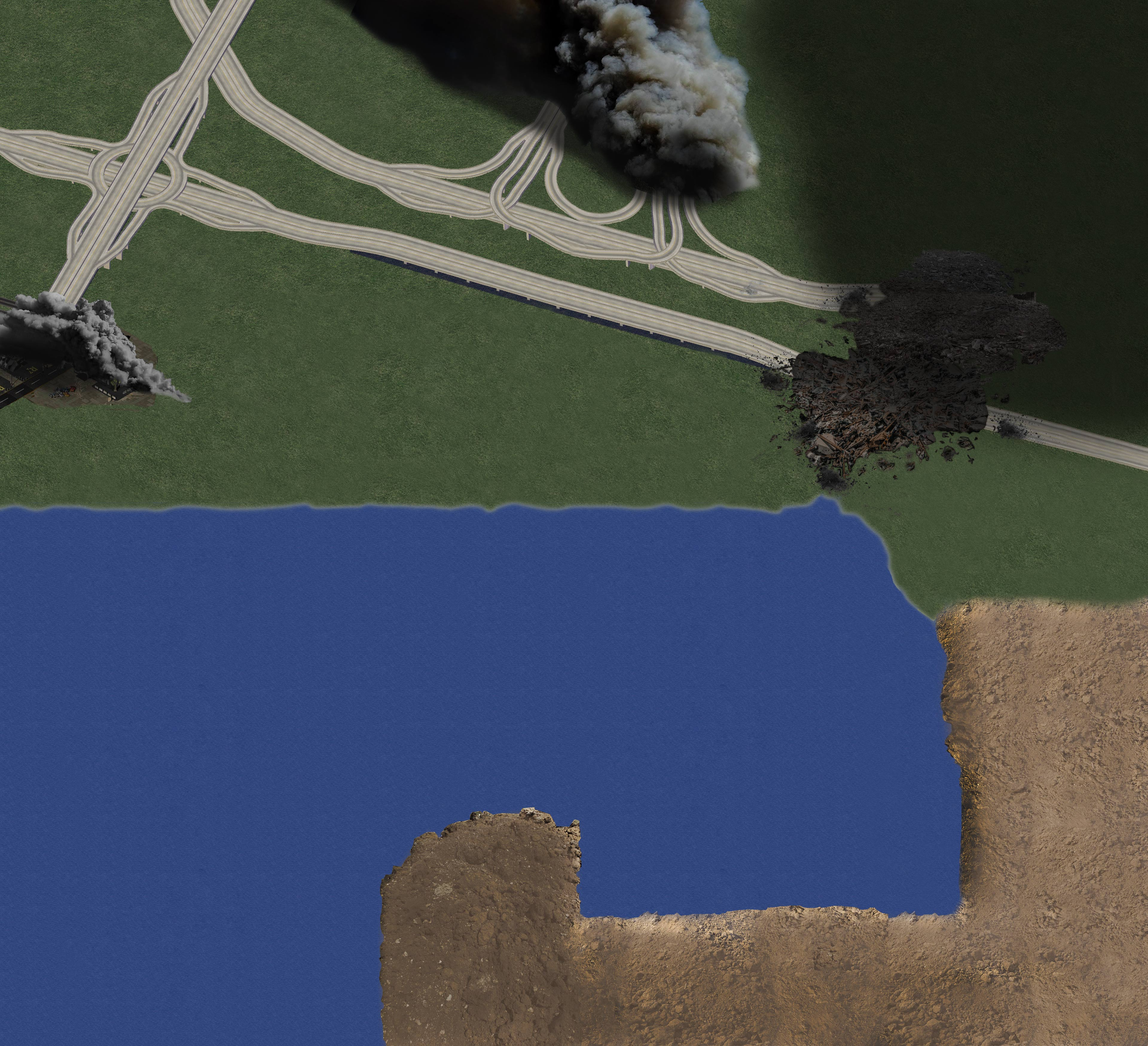
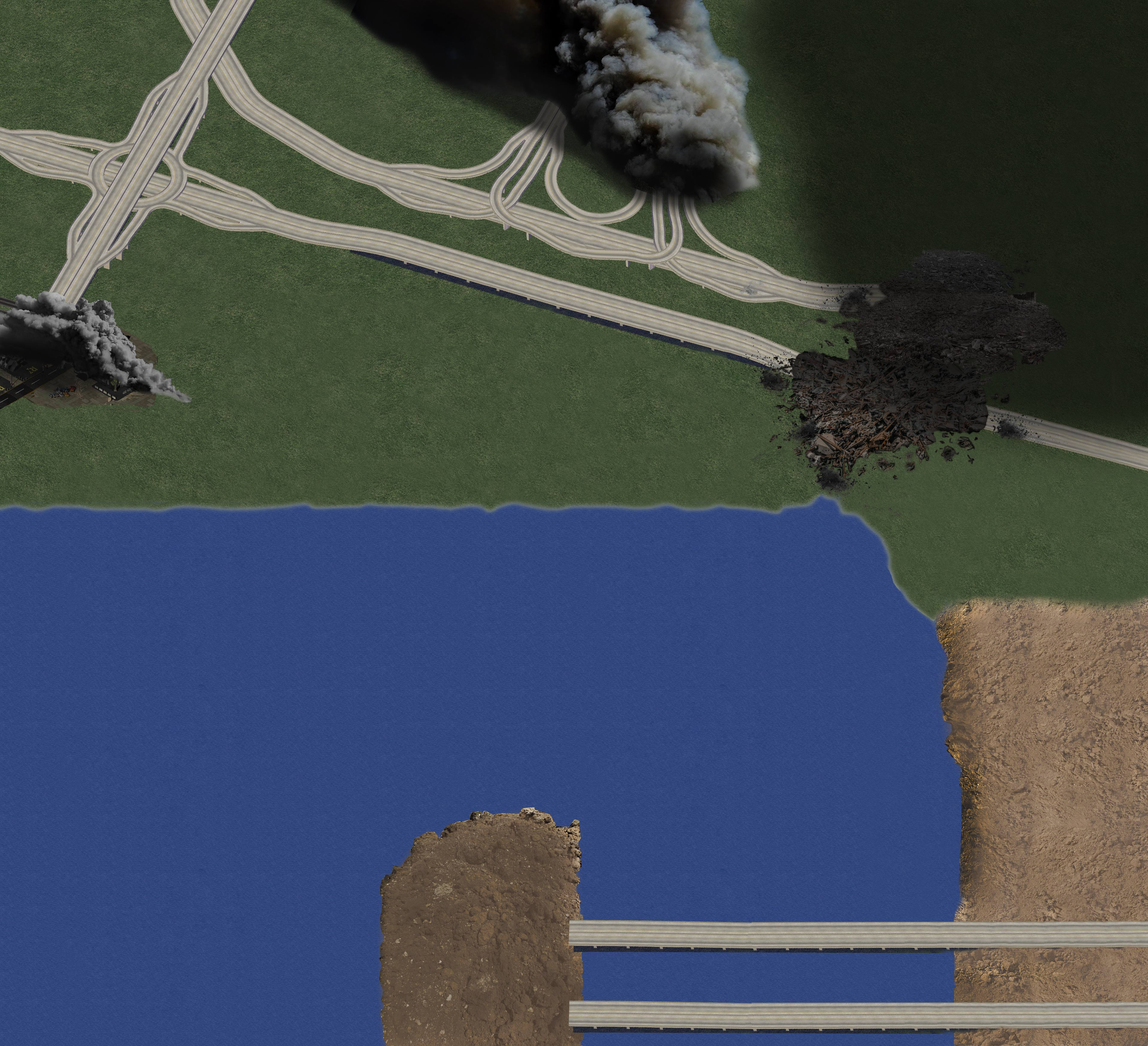
bridge

Changed region(s): [[0.4688, 0.8409, 1.0, 1.0]]

diff --git a/mech/js/l1.js b/mech/js/l1.js
@@ -6,7 +6,7 @@ document.addEventListener("DOMContentLoaded", function(event) {
 	var enemy5 = addEnemy("turret", 50, 1400, 3100);
 	var enemy6 = addEnemy("turret", 50, 1700, 3000);
 	var enemy7 = addEnemy("turret", 50, 1400, 3400);
-	var enemy8 = addEnemy("turret", 50, 1700, 3250);
+	var enemy8 = addEnemy("turret", 50, 1700, 3271);
 	var enemy9 = addEnemy("turret", 50, 3282, 742);
 	var enemy10 = addEnemy("turret", 50, 3682, 503);
 	var enemy11 = addEnemy("turret", 50, 3583, 207);
@@ -25,6 +25,8 @@ document.addEventListener("DOMContentLoaded", function(event) {
 	var obstacleWater4 = addObstacle(1000, 700, 950, 2099, false);
 	var obstacleWater5 = addObstacle(400, 750, 899, 2775, false);
 	var obstacleWater6 = addObstacle(70, 100, 1300, 2775, false);
+	var obstacleWater7 = addObstacle(1260, 125, 1949, 3186, false);
+	var obstacleWater8 = addObstacle(1259, 123, 1949, 3458, false);
 });
 
 function addEnemy(enemyType, life, left, top, direction = "left") {
